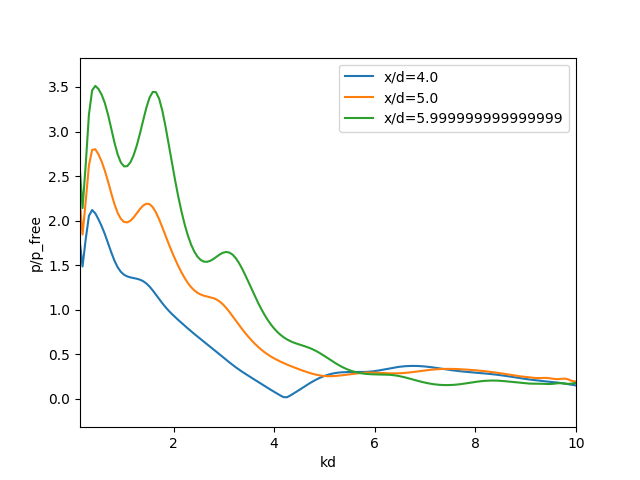
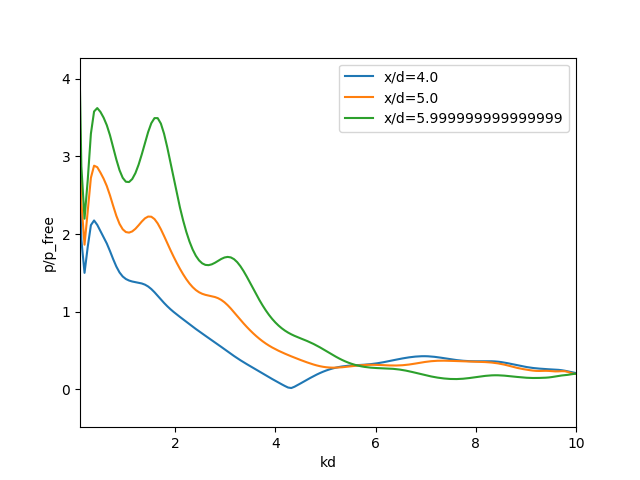
blalbalbla

diff --git a/FDTD/__main__.py b/FDTD/__main__.py
@@ -36,9 +36,9 @@ coordinates2=[[4*distance,distance/2+floor_height],[5*distance,distance/2+floor_
 
 
 #size of array:
-K=int(800) #dimensioneless
-N=int(250) #dimensioneless
-M=int(150) #dimensioneless
+K=int(800) # dimensionless
+N=int(250) # dimensionless
+M=int(143) # dimensionless
 
 print(f"M={M}")
 print(f"N={N}")
@@ -100,12 +100,12 @@ y_p = (y_o[1:] + y_o[:-1])/2
 f, buffer = 0.5, d
 # x_o = coordTransform(x_o, x0=wl, x1=wr, f=f)
 # x_p = coordTransform(x_p, x0=wl, x1=wr, f=f)
-# x_o = parabolicCoordTransform(x_o, x0=wl, x1=wr, f=f, buffer=buffer)
-# x_p = parabolicCoordTransform(x_p, x0=wl, x1=wr, f=f, buffer=buffer)
+x_o = parabolicCoordTransform(x_o, x0=wl, x1=wr+4, f=f, buffer=buffer)
+x_p = parabolicCoordTransform(x_p, x0=wl, x1=wr+4, f=f, buffer=buffer)
 # y_o = coordTransform(y_o, x0=floor_height, x1=wh, f=f)
 # y_p = coordTransform(y_p, x0=floor_height, x1=wh, f=f)
-# y_o = parabolicCoordTransform(y_o, x0=floor_height, x1=wh, f=f, buffer=buffer)
-# y_p = parabolicCoordTransform(y_p, x0=floor_height, x1=wh, f=f, buffer=buffer)
+y_o = parabolicCoordTransform(y_o, x0=floor_height, x1=wh+2, f=f, buffer=buffer)
+y_p = parabolicCoordTransform(y_p, x0=floor_height, x1=wh+2, f=f, buffer=buffer)
 if refinement:
     plt.plot(x_o, np.arange(N+1),    ".", label="x$_o$")
     plt.plot(y_o, np.arange(M+1),    ".", label="y$_o$")
@@ -135,8 +135,8 @@ if refinement:
     plt.xlabel("n")
     plt.ylabel("dx (m)")
     plt.ylim(bottom=0)
-    # plt.title("spatial steps after transformation")
-    # plt.legend()
+    plt.title("spatial steps after transformation")
+    plt.legend()
     plt.show()
 
 #time step based on CN and stabilaty:
@@ -525,11 +525,11 @@ def triangle(px,py,ox,oy,F1,F2,K,xs,ys,co):
     
     
     #determie obstacle indexes
-    wall_left = int(wl/a*(N+1))
-    wall_right = int(wr/a*(N+1))
-    ceiling = int(wh/b*(M+1))
+    wall_left = np.argmin(np.abs(x_o - wl))
+    wall_right = np.argmin(np.abs(x_o - wr))
+    ceiling = np.argmin(np.abs(y_o - wh))
     print("-"*20)
-    print(ceiling)
+    print(f"y_o[{ceiling}] = {y_o[ceiling]}")
     print((wall_right-wall_left)*2)
 
     #solving scheme
@@ -543,7 +543,7 @@ def triangle(px,py,ox,oy,F1,F2,K,xs,ys,co):
 
         #aplying boundry conditions
         midle=int((wall_right-wall_left)/2)
-        floor_index=int((floor_height/b)*(M+1))
+        floor_index=np.argmin(np.abs(y_o - floor_height))
         
         for index in range(midle+1):
             oy[i+1,4*index+floor_index,index+wall_left]=((1-Z*(dt/dy_o[0,0]))*ox[i,4*index+floor_index,index+wall_left]-2*(dt/dx_o[0,0])*p[4*index+floor_index,index+wall_left])/(1+Z*(dt/dy_o[0,0]))

diff --git a/FDTD/non_cartesian.py b/FDTD/non_cartesian.py
@@ -26,7 +26,7 @@ T = 6*b/c                     # timespan              [s]
 # Courant Number
 CN  = 0.8
 
-du = 0.2                                             # step in u-direction [m]
+du = 0.17                                            # step in u-direction [m]
 dv = du/np.sin(theta)                                # step in v-direction [m]
 dt = np.sqrt(CN)/np.sqrt(1/(du + dv*np.cos(theta))**2 + 1/(dv*np.sin(theta))**2)/c # timestep            [s]
 print(f"du x dv x dt = {du} x {dv} x {dt}")
